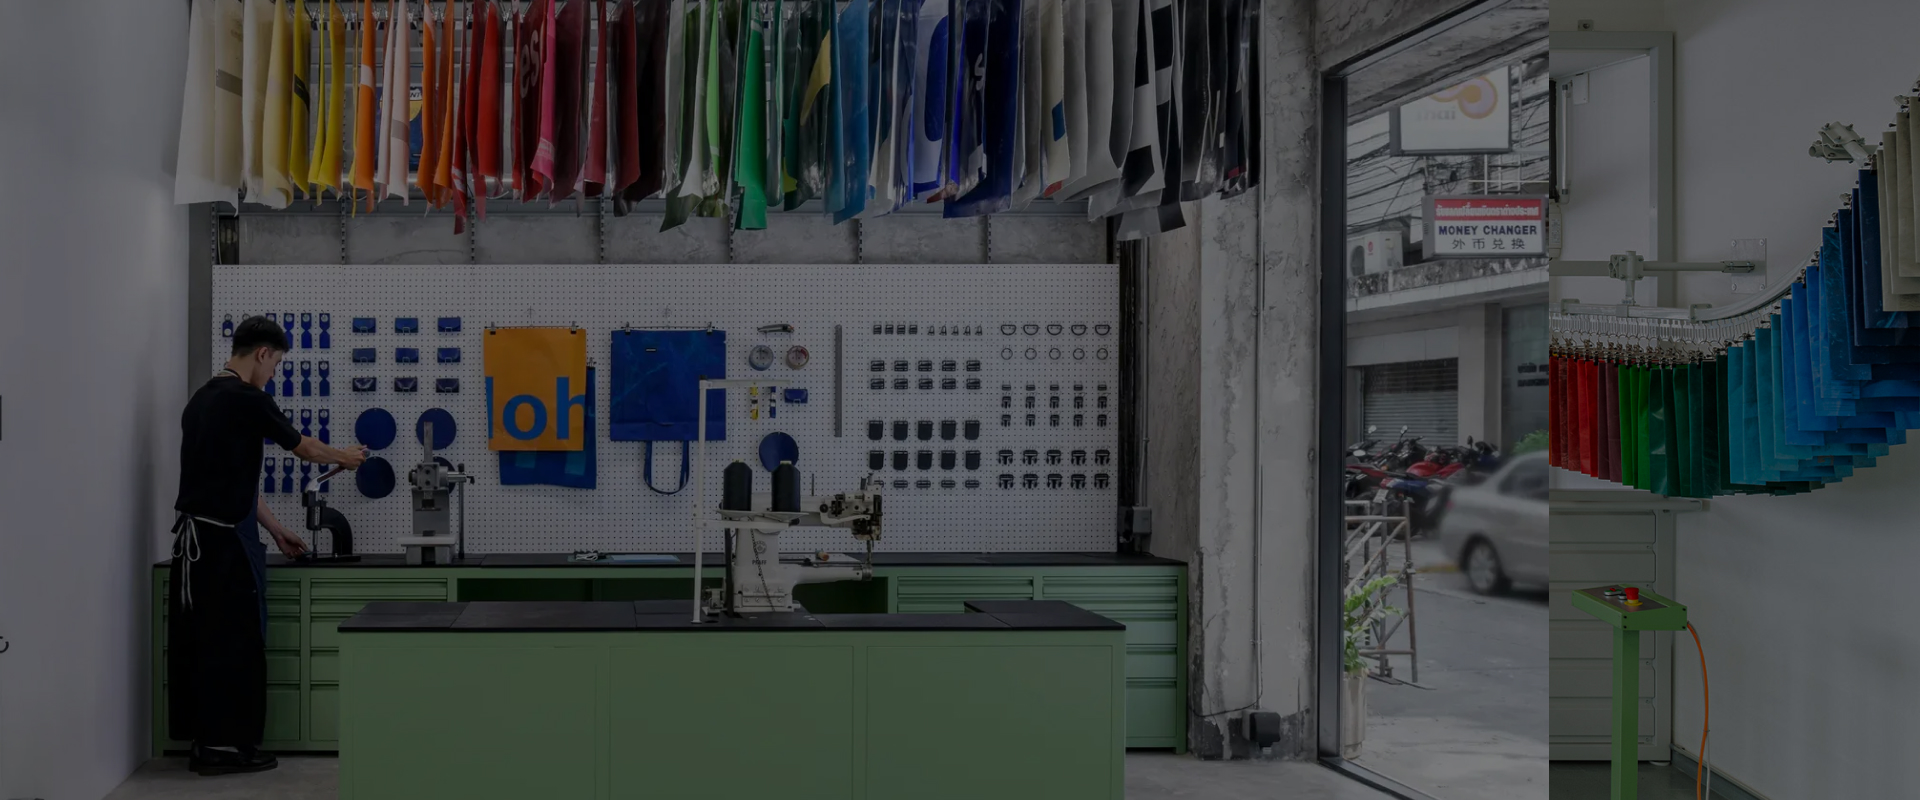
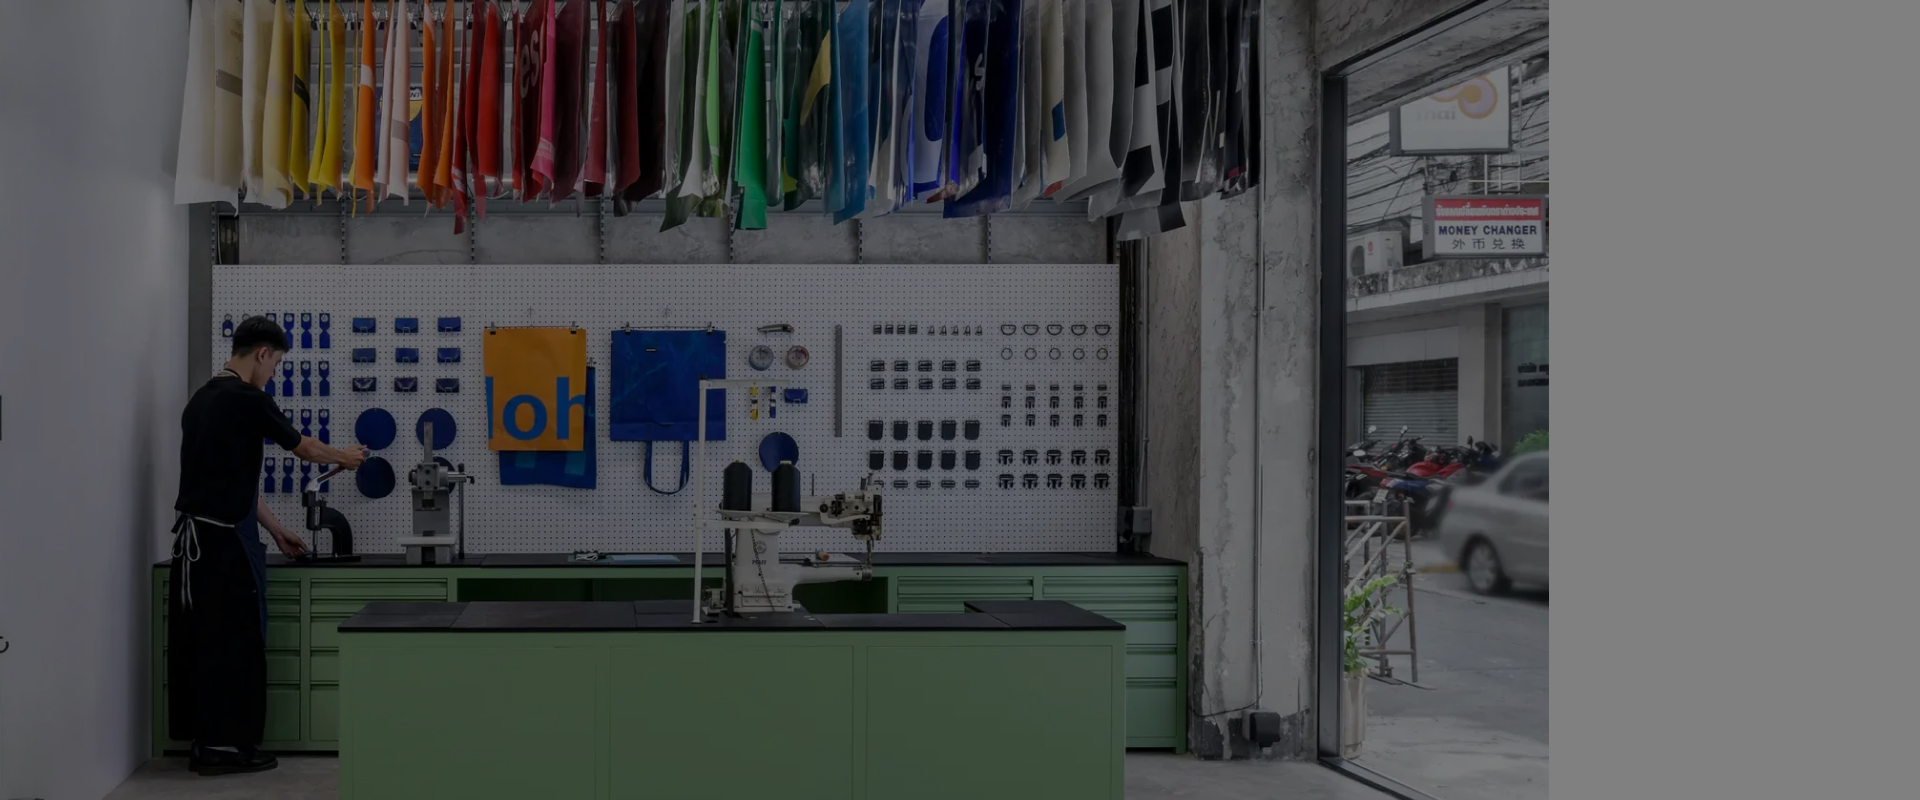
메인배너완성

Changed region(s): [[0.7812, 0.0, 1.0, 1.0]]

diff --git a/sh.min.css b/sh.min.css
@@ -1,1 +1,1 @@
-body{font-family:"helvetica neue","Noto Sans KR",sans-serif !important}body a{text-decoration:none;color:#000}body li{list-style:none}#hd{background-color:#000}#hd a{color:#fff;white-space:nowrap}#hd h1 a{width:150px}#hd .gnb .gnb_li{z-index:100000}#hd .gnb .gnb_li:hover .gnb_a{text-decoration:underline}#hd .gnb .gnb_li:hover .gnb_ul{max-height:400px}#hd .gnb .gnb_li:hover li a:hover{text-decoration:underline}#hd .gnb .gnb_li .gnb_ul{top:100%;transform:translateX(-50%);left:50%;overflow:hidden;background-color:#000;transition:.5s;text-align:center;line-height:2;max-height:0;padding:0}#hd .gnb .gnb_li .gnb_ul li{border-left:1px solid #fff;border-right:1px solid #fff;padding:0 2rem}#hd .gnb .gnb_li .gnb_ul li:nth-child(1){border-top:1px solid #fff;padding-top:20px}#hd .gnb .gnb_li .gnb_ul li:last-child{border-bottom:1px solid #fff;padding-bottom:20px}#mainbanner{font-family:"helvetica-neue"}#mainbanner .swiper{width:100%;height:100%}#mainbanner .swiper-slide{text-align:center;font-size:18px;background:#fff;display:flex;justify-content:center;align-items:center}#mainbanner .swiper-slide img{display:block;width:100%;height:100%;-o-object-fit:cover;object-fit:cover}#mainbanner .main1{background-image:url("/img/mainbanner1.jpg");background-repeat:no-repeat;background-size:cover;width:1920px;height:800px}#mainbanner .main1 .main_black{width:660px;height:800px;background-color:#000}#mainbanner .main1 .main_txt{top:22%;left:49%}#mainbanner .main1 .main_txt .main_title{color:#fff;font-size:11rem;line-height:.75;font-weight:900}#mainbanner .main2{background-image:url("/img/mainbanner2.jpg");background-repeat:no-repeat;background-size:cover;width:1920px;height:800px}#mainbanner .main3{background-image:url("/img/mainbanner3-1.jpg");background-repeat:no-repeat;background-size:cover;width:1920px;height:800px}
+body{font-family:"helvetica neue","Noto Sans KR",sans-serif !important}body a{text-decoration:none;color:#000}body li{list-style:none}#hd{background-color:#000}#hd a{color:#fff;white-space:nowrap}#hd h1 a{width:150px}#hd .gnb .gnb_li{z-index:100000}#hd .gnb .gnb_li:hover .gnb_a{text-decoration:underline}#hd .gnb .gnb_li:hover .gnb_ul{max-height:400px}#hd .gnb .gnb_li:hover li a:hover{text-decoration:underline}#hd .gnb .gnb_li .gnb_ul{top:100%;transform:translateX(-50%);left:50%;overflow:hidden;background-color:#000;transition:.5s;text-align:center;line-height:2;max-height:0;padding:0}#hd .gnb .gnb_li .gnb_ul li{border-left:1px solid #fff;border-right:1px solid #fff;padding:0 2rem}#hd .gnb .gnb_li .gnb_ul li:nth-child(1){border-top:1px solid #fff;padding-top:20px}#hd .gnb .gnb_li .gnb_ul li:last-child{border-bottom:1px solid #fff;padding-bottom:20px}#mainbanner{font-family:"helvetica-neue"}#mainbanner .swiper{width:100%;height:100%}#mainbanner .swiper-slide{text-align:center;font-size:18px;background:#fff;display:flex;justify-content:center;align-items:center}#mainbanner .swiper-slide img{display:block;width:100%;height:100%;-o-object-fit:cover;object-fit:cover}#mainbanner .main1{background-image:url("/img/mainbanner1.jpg");background-repeat:no-repeat;background-size:cover;width:1920px;height:800px}#mainbanner .main1 .main_txt{top:22%;left:-45%;color:#fff;font-size:11rem;line-height:.75;font-weight:900}#mainbanner .main2{background-image:url("/img/mainbanner2.jpg");background-repeat:no-repeat;background-size:cover;width:1920px;height:800px}#mainbanner .main3{background-image:url("/img/mainbanner3-1.jpg");background-repeat:no-repeat;background-size:cover;width:1920px;height:800px}#mainbanner .main_black{width:690px;height:800px;background-color:#000}#mainbanner .main_a{color:#000;font-weight:600;font-size:1.5rem;display:block;width:450px;height:80px;background-color:#fff;text-align:center;line-height:3}#mainbanner .main_txt{top:22%;left:16%}#mainbanner .main_txt .main_subtxt{color:#fff;font-size:1.1rem;line-height:.7;font-weight:400;margin:100px 0 170px}#mainbanner .main_txt .main_title{color:#fff;font-size:3rem;font-weight:600}

diff --git a/index.html b/index.html
@@ -165,26 +165,46 @@
         <div class="swiper-wrapper">
             <div class="swiper-slide main1">
                 <div class="d-flex justify-content-end w-100">
-                    <div class="main_black position-relative"></div>
-                    <div class="position-absolute main_txt">
-                        <p class="main_title">WE THINK</p>
-                        <p class="main_title">ACT IN</p>
-                        <p class="main_title">IN CYCLE</p>
+                    <div class="main_black position-relative">
+                        <div class="position-absolute main_txt">
+                            <p>WE THINK</p>
+                            <p>ACT IN</p>
+                            <p>IN CYCLE</p>
+                        </div>
                     </div>
                 </div>
             </div>
 
             <div class="swiper-slide main2">
                 <div class="d-flex justify-content-end w-100">
-                    <div class="main_black position-relative"></div>
-                    <div class="position-absolute">
-                        <span>WE THINK</span>
-                        <span>ACT IN</span>
-                        <span>IN CYCLE</span>
+                    <div class="main_black position-relative">
+                        <div class="position-absolute main_txt text-start">
+                            <p class="main_title">FERDERATION</p>
+                            <div class="main_subtxt">
+                                <p>프라이탁의 멤버가 되어
+                                <p>제품 출시 전 사전 구매 혜택 등과 같은</p> 
+                                <p>다양한 혜택을 누려보세요!</p>
+                            </div>
+                            <a href="#" class="main_a">멤버십 가입하기</a>
+                        </div>
                     </div>
                 </div>
             </div>
-            <div class="swiper-slide main3">Slide 3</div>
+            <div class="swiper-slide main3">
+                <div class="d-flex justify-content-end w-100">
+                    <div class="main_black position-relative">
+                        <div class="position-absolute main_txt text-start">
+                            <p class="main_title">FREITAG YOU'RE SELF</p>
+                            <div class="main_subtxt">
+                                <p>프라이탁만의 커스텀마이징 
+                                <p>F-CUT을 팝업스토어 현장에서 </p> 
+                                <p>만날 수 있는 기회를 놓치지 마세요</p>
+                            </div>
+                            <a href="#" class="main_a">멤버십 가입하기</a>
+                        </div>
+                    </div>
+                </div>
+            </div>
         </div>
             <div class="swiper-scrollbar"></div>
         </div>

diff --git a/sh.scss b/sh.scss
@@ -82,8 +82,11 @@ body{
         }
 }
 }
+
 #mainbanner{
+
     font-family: 'helvetica-neue';
+
     .swiper {
         width: 100%;
         height: 100%;
@@ -112,22 +115,16 @@ body{
         width: 1920px;
         height: 800px;
 
-        .main_black{
-            width: 660px;
-            height: 800px;
-            background-color: #000000;
-        }
+       
         .main_txt{
-
+            
             top: 22%;
-            left: 49%;
-
-            .main_title{
-                color: #fff;
-                font-size: 11rem;
-                line-height: 0.75;
-                font-weight: 900;
-            }
+            left: -45%;
+            color: #fff;
+            font-size: 11rem;
+            line-height: 0.75;
+            font-weight: 900;
+            
          
          }
       }
@@ -137,6 +134,7 @@ body{
         background-size: cover;
         width: 1920px;
         height: 800px;
+       
       }
       .main3{
         background-image: url("/img/mainbanner3-1.jpg");
@@ -145,4 +143,45 @@ body{
         width: 1920px;
         height: 800px;
       }
+
+      .main_black{
+        width: 690px;
+        height: 800px;
+        background-color: #000000;
+    }
+     .main_a{
+        color: #000;
+        font-weight: 600;
+        font-size: 1.5rem;
+        display: block;
+        width: 450px;
+        height: 80px;
+        background-color: #fff;
+        text-align: center;
+        line-height: 3;
+    }
+
+     
+    .main_txt{
+
+        top: 22%;
+        left: 16%;
+
+        .main_subtxt{
+            color: #fff;
+            font-size: 1.1rem;
+            line-height: 0.7;
+            font-weight: 400;
+            margin: 100px 0 170px;
+        }
+
+        .main_title{
+            color: #fff;
+            font-size: 3rem;
+            font-weight: 600;
+          
+        }
+     
+     }
+     
 }

diff --git a/sh.css b/sh.css
@@ -86,16 +86,9 @@ body li {
   width: 1920px;
   height: 800px;
 }
-#mainbanner .main1 .main_black {
-  width: 660px;
-  height: 800px;
-  background-color: #000000;
-}
 #mainbanner .main1 .main_txt {
   top: 22%;
-  left: 49%;
-}
-#mainbanner .main1 .main_txt .main_title {
+  left: -45%;
   color: #fff;
   font-size: 11rem;
   line-height: 0.75;
@@ -114,4 +107,36 @@ body li {
   background-size: cover;
   width: 1920px;
   height: 800px;
+}
+#mainbanner .main_black {
+  width: 690px;
+  height: 800px;
+  background-color: #000000;
+}
+#mainbanner .main_a {
+  color: #000;
+  font-weight: 600;
+  font-size: 1.5rem;
+  display: block;
+  width: 450px;
+  height: 80px;
+  background-color: #fff;
+  text-align: center;
+  line-height: 3;
+}
+#mainbanner .main_txt {
+  top: 22%;
+  left: 16%;
+}
+#mainbanner .main_txt .main_subtxt {
+  color: #fff;
+  font-size: 1.1rem;
+  line-height: 0.7;
+  font-weight: 400;
+  margin: 100px 0 170px;
+}
+#mainbanner .main_txt .main_title {
+  color: #fff;
+  font-size: 3rem;
+  font-weight: 600;
 }
